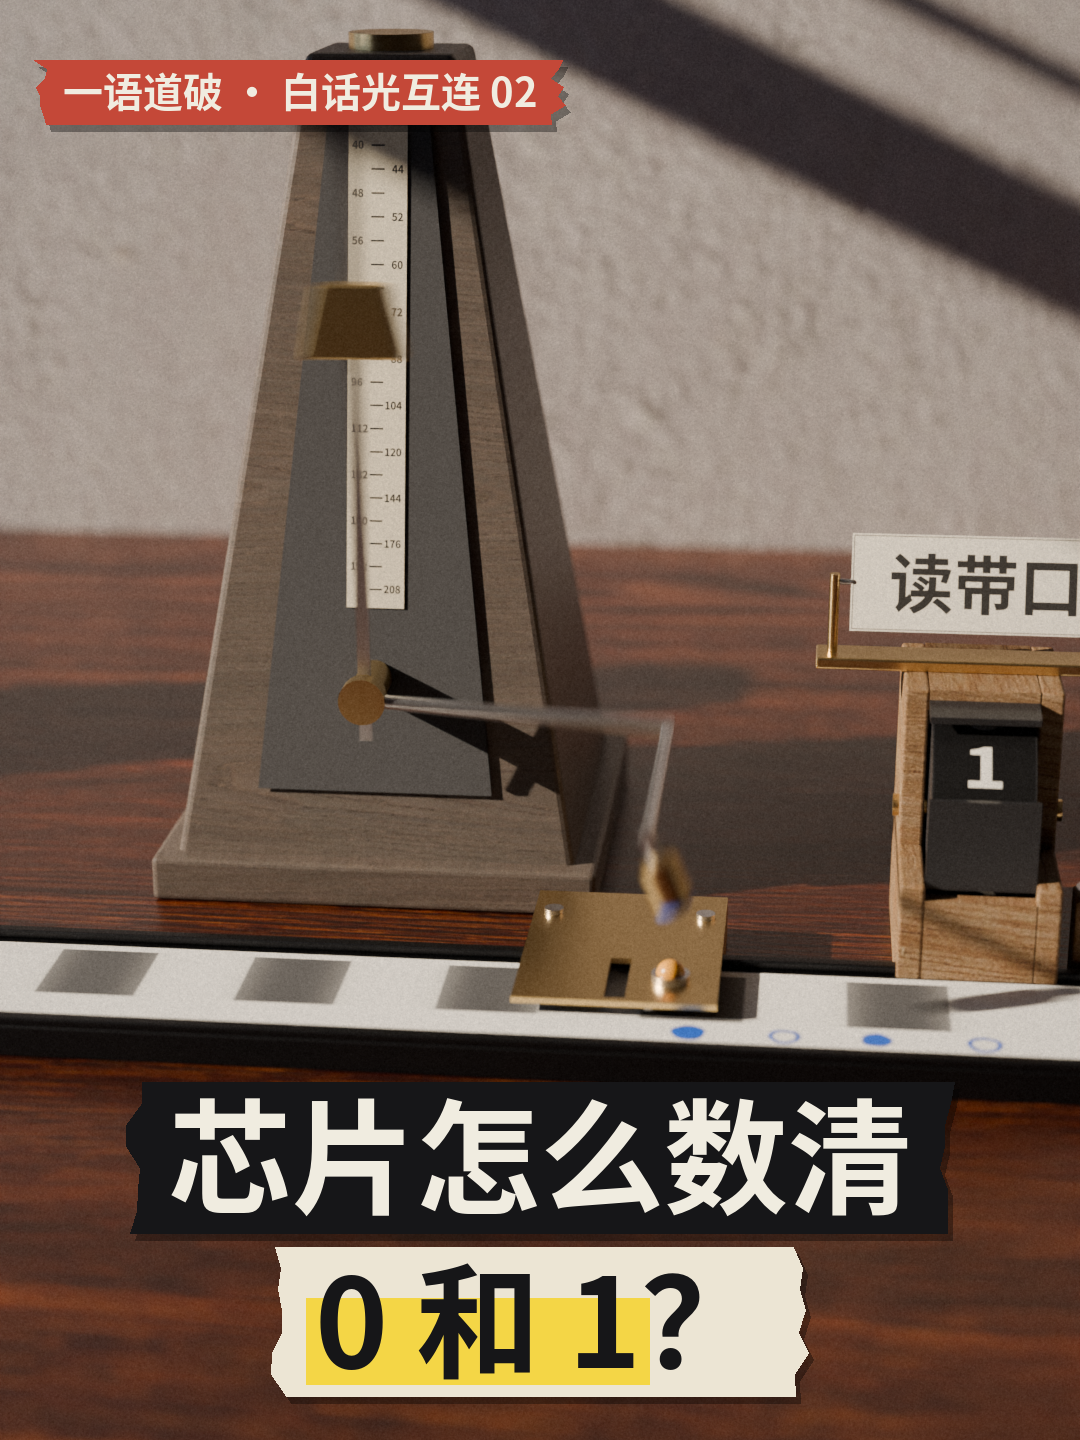
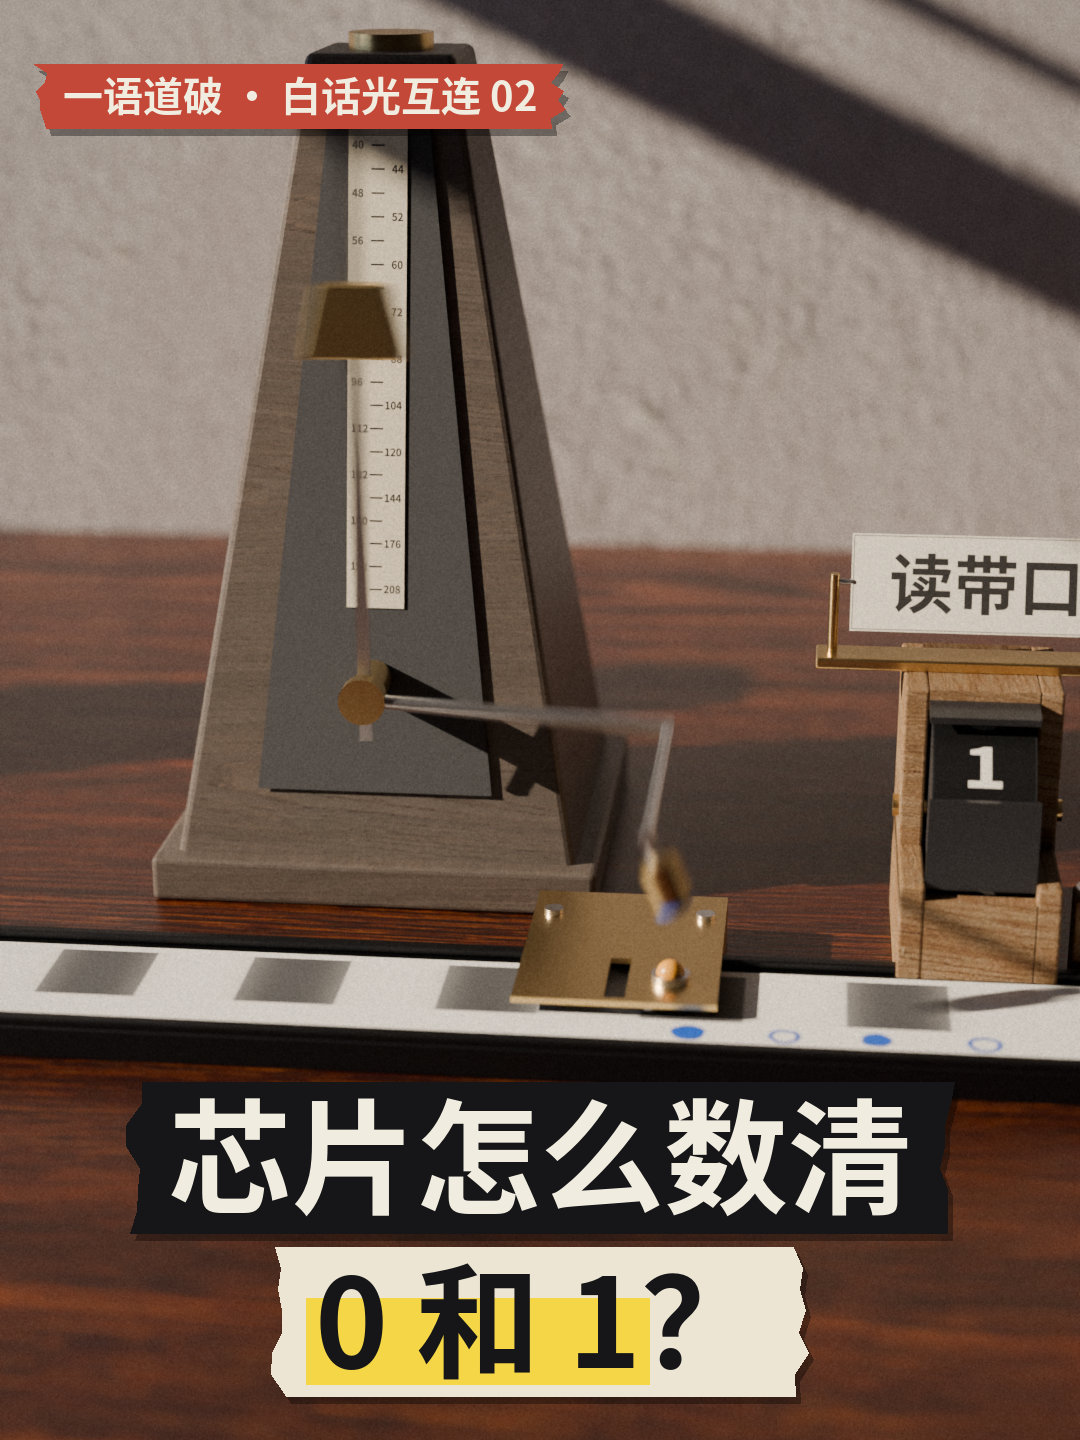
光互连 02 下集桌面演示版：按审核和监督的意见改合成、封面和文案
- comp_film.py：第一帧的大字问题不淡入；「一格多长 = 节拍」签提前到尺子落稳就出；字幕换句不再晚 0.12 秒
- cover.py：系列签挪到左上角，抖音封面的字收进 3:4 裁切范围
- FACTS.md：五处旧行对到成片；publish.md：文件名、章节点、带关键词的备选标题
- 观众（Codex）对成片的反馈；要求清单补 L26–L29

Claude-Session: https://claude.ai/code/session_017cWy2DJTe6QYaTQg4zvix4

Changed region(s): [[0.0306, 0.0312, 0.5194, 0.0938]]

diff --git a/episodes/guanghulian/02-serdes/下集_桌面演示/blender/comp_film.py b/episodes/guanghulian/02-serdes/下集_桌面演示/blender/comp_film.py
@@ -28,7 +28,7 @@ TAGS = {
     "y2": [(4, 36, "tray", "一排", "mt", (0, 215), False), (62, 102, "tape_mid", "排成一列", "mt", (0, 50), False)],
     "y3d": [(6, 36, "prn_out", "黑 = 1　白 = 0", "lt", (-40, 60), False)],
     "s34a": [(4, 90, "dot1", "数一个", "mt", (0, 60), False)],
-    "s34b": [(90, 160, "dot1", "数一个", "mt", (0, 60), False), (167, 187, "ruler", "一格多长 = 节拍", "mt", (0, 70), False)],
+    "s34b": [(90, 138, "dot1", "数一个", "mt", (0, 60), False), (140, 187, "ruler", "一格多长 = 节拍", "mt", (0, 70), False)],   # 尺子 132 帧落稳，签跟着出（全片最要紧的一张签，留够 1.9 秒）
     "y5": [(20, 118, "lamp", "鼓点", "lt", (30, 60), False)],
     "y6g": [(30, 94, "pin", "信号跳一下", "rb", (-30, -70), False)],
     "s9a": [(12, 62, "dot", "每条通道：快一倍", "mt", (0, 70), False)],
@@ -39,12 +39,16 @@ NOTES = {"s34a": (0, 90, "示意：只画两种电平")}       # 全片唯一的
 LOUD = {"s34a": (0, 90), "s34b": (90, 100), "y6c": (146, 234)}     # 要观众数的「啪」：y3–y4 的四下、y6 长黑带上的五下；其余都压低
 
 
-def fade(f, f0, f1, n=5): return max(0.0, min(1.0, (f - f0 + 1) / n, (f1 - f) / n))
+def fade(f, f0, f1, n=5, hard_in=False):
+    """小签淡入淡出各 n 帧。hard_in：不淡入（全片第一帧的大字问题必须一上来就在）。"""
+    return max(0.0, min(1.0, 1.0 if hard_in else (f - f0 + 1) / n, (f1 - f) / n)) if f >= f0 else 0.0
 
 
 def sub_at(t):
-    for a, b, txt in SUBS:
-        if a <= t < b + 0.12: return txt
+    for a, b, txt in SUBS:                                # 正在说的那一句优先
+        if a <= t < b: return txt
+    for a, b, txt in SUBS:                                # 句间的空隙里，上一句多留 0.12 秒，免得字幕一闪一闪
+        if b <= t < b + 0.12: return txt
     return ""
 
 
@@ -56,7 +60,7 @@ def frame_job(job):
     kit = Kit(FONTS, im.size[0]); s = kit.s
     A = ANC[shot]["pts"][f]
     for f0, f1, anc, text, corner, (dx, dy), big in TAGS.get(shot, []):
-        a = fade(f, f0, f1)
+        a = fade(f, f0, f1, hard_in=(shot == "y1" and f0 == 0))
         if a > 0:
             ax, ay = A[anc][0] * kit.W, A[anc][1] * kit.H
             kit.tag(im, (ax + dx * s, ay + dy * s), text, alpha=a, anchor=corner, big=big, line_to=None if big else (ax, ay))

diff --git a/episodes/guanghulian/02-serdes/下集_桌面演示/blender/cover.py b/episodes/guanghulian/02-serdes/下集_桌面演示/blender/cover.py
@@ -35,10 +35,9 @@ def block(im, cx, y, text, size, bg, fg, seed, kw=None, pad=(34, 16)):
 
 
 def cover(im, y, size, wide=True):
-    """wide=True（抖音 9:16）：系列签、两行大字、副题都压在桌面上。False（小红书 3:4）：桌面只够放两行大字，系列签挪到左上角，不放副题。"""
+    """系列签在左上角，两行大字压在纸带下面的桌面上。wide=True（抖音 9:16）多一行副题，整组字收在 y 1680 以上（主页网格按 3:4 居中裁，底部还有界面）；小红书 3:4 不放副题。"""
     cx = im.size[0] / 2
-    if wide: y = block(im, cx, y, TAG, 40, RED, CREAM, 1, pad=(22, 12)) + 22
-    else: block(im, 300, 60, TAG, 40, RED, CREAM, 1, pad=(22, 12))
+    block(im, 300, 64, TAG, 40, RED, CREAM, 1, pad=(22, 12))       # 系列签在左上角：桌面留给大字
     y = block(im, cx, y, L1, size, DARK, CREAM, 2) + 14
     y = block(im, cx, y, L2, size, PAPER, DARK, 3, kw=KW) + 22
     if wide: block(im, cx, y, SUB, 46, DARK, CREAM, 4, pad=(26, 14))
@@ -47,6 +46,6 @@ def cover(im, y, size, wide=True):
 
 base = grade(Image.open(os.path.join(SRC, "y5", "f_0075.png")), seed=75)
 assert base.size == (1080, 1920), base.size
-cover(base.copy(), 1190, 136).save(os.path.join(OUT, "封面_抖音_1080x1920.png"))
+cover(base.copy(), 1240, 128).save(os.path.join(OUT, "封面_抖音_1080x1920.png"))
 cover(base.crop((0, 160, 1080, 1600)), 1082, 124, wide=False).save(os.path.join(OUT, "封面_小红书_1080x1440.png"))
 print("ok")

diff --git a/episodes/guanghulian/02-serdes/下集_桌面演示/FACTS.md b/episodes/guanghulian/02-serdes/下集_桌面演示/FACTS.md
@@ -10,7 +10,7 @@
 | 读带口是一道窄缝，只看得到当前这一小段 | 接收端在某一时刻只能判断当前电平 | 类比 |
 | 纸带不画格线，五格黑连成一整段 | 连续相同的比特之间没有跳变，电平上没有分界 | 成立（类比表达） |
 | 透明尺的刻度 = 一格 =「节拍」；尺和发货端的节拍器「不随货送」 | 原文：这类高速连接通常不另外送时钟。发货端当然有自己的时钟，只是不单独送过去 | 类比 |
-| y3 后半–y4 没对过的节拍器偏慢（约 24.5 帧一下，该是 20 帧），五格黑只盖了四个点 | 同下一行；慢出两成多是夸大的示意，真实的频率偏差是百万分之几十到几百的量级（没有查来源，片中不出现） | 示意 |
+| y3 后半–y4 没对过的节拍器偏慢（25 帧一下，该是 20 帧），五格黑只盖了四个点 | 同下一行；慢出两成多是夸大的示意，真实的频率偏差是百万分之几十到几百的量级（没有查来源，片中不出现） | 示意 |
 | y4 收货端的节拍器「稍慢」，所以数不准 | 收发两端的时钟各自独立，频率、相位有小偏差。偏差的大小是示意 | 示意 |
 | 摆到左头的「嗒」对齐交界，摆到右头的蓝点落在格子正中 | 时钟恢复让时钟沿对齐数据跳变，采样点在比特中间（`../douyin-split/FACTS.md`「在每个比特的正中间看一眼」） | 类比 |
 | y5「嗒」晚了下一摆就早一点 | 用跳变判断本地时钟超前还是滞后，再修正（`../douyin-split/FACTS.md`「早了往后拨一点」一行） | 类比（示意） |
@@ -21,13 +21,13 @@
 | y8 口播「让鼓点不会断太久」 | 扰码让长串相同电平变得极少，不是绝对保证（`../下集_新风格/FACTS.md` 扰码一节） | 〔摘〕 |
 | 用四电平的通道也要扰码 | `../下集_新风格/FACTS.md` | 〔待核〕；片中不提 |
 | y9 纸带速度不变、格子窄一半、节拍器快一倍；签上写「每条通道」 | 信号在线上的传播速度没变，变的是每个比特占的时间（`DECISIONS.md` 2026-11-11）。速度指每条通道 | 成立 |
-| y9 口播加「这套负责发货、收货的电路，叫 SerDes」；桌沿的签「这一整套 = SerDes」 | SerDes = 发货端的串行化 + 收货端的解串（含时钟恢复） | 成立 |
+| y9 口播加「这套负责发货、收货的电路，叫 SerDes」；桌沿的签「整套 = SerDes」 | SerDes = 发货端的串行化 + 收货端的解串（含时钟恢复） | 成立 |
 | y10 洇边一直一样宽，格子窄了才把整格吃掉 | 类比码间干扰：通道造成的展宽大致固定，比特越短，占的比例越大。细讲在 03 | 类比 |
 | y10 糊了以后小灯该闪不闪、蓝点又乱 | 信号模糊后跳变位置不准，时钟更难锁 | 类比 |
 | y10 修字盒发货端、收货端都有 | 发送端和接收端都有均衡电路。盒子数量不对应具体电路 | 示意 |
 | y10 功率计上升、盒子占掉小半张桌子 | 原文：SerDes 自己带着不少修信号的电路，都要耗电、占面积 | 示意 |
 | y11 总功率计不回落，只有「每个比特」小表被往下压；v4 去掉了「盒子变小」 | 口播说的是每送一个比特少花电，而且是「在拼」。每比特能耗逐代下降：IEEE 802.3df 投稿预测 200G / 通道 SerDes 约 4–5 pJ/b（https://www.ieee802.org/3/df/public/22_11/prli_3df_01_2211.pdf）；Broadcom 的介绍（https://www.broadcom.com/topics/what-is-serdes-for-ai-infrastructure）。每条通道总功耗持平或上升：**仅单一来源**（厂商文章 https://www.linkedin.com/pulse/how-224g-serdes-enables-16t-networking-without-increasing-e9j7c）。以上都是审核 11-11 用 AnySearch 查的，只看了搜索摘要，原文没打开 | 示意；「每比特能耗下降」有两处来源〔摘要〕；「总功耗持平或上升」〔待核，仅单一来源〕，片中不说，画面只让指针停住不回落 |
-| y12 签「一条通道 · 每秒上千亿个」贴在读带口旁 | 每条通道 112 Gb/s 级（原文） | 成立 |
+| y12 签「一条通道 · 上千亿 / 秒」贴在读带口旁 | 每条通道 112 Gb/s 级（原文） | 成立 |
 
 ## y6 试镜头（`blender/`，2026-11-11）新加的画面说法
 
@@ -40,7 +40,7 @@
 | 节拍器外形：底 110 mm 见方、高 215 mm 的木壳，刻度 40–208 | 常见机械节拍器的大致尺寸和速度范围，凭印象建的，没有对照具体型号 | 〔待核〕；只是道具外形 |
 | （发光段）走线上亮的一段 = 1、暗的一段 = 0，和纸带同速走进芯片引脚 | 两电平信号的高 / 低电平沿走线传到接收端。电信号本身不发光；一格 24 mm、每秒 28.8 mm 只是为了和纸带对上，真实信号在走线上的速度约为光速的一半到六成，视板材而定（没有查来源，片中不出现） | 示意；不加角注（用户 11-11：常识就知道是示范） |
 | （发光段）跳变到达引脚时闪一下；每个节拍正中芯片上蓝色亮一下 | 同上表：跳变 = 鼓点；采样点在比特中间 | 类比 |
-| （发光段）电路板是一块老式主板的 CC0 模型，走线是我们沿板上的空道另画的，不是模型上原有的走线 | 只当「芯片和走线」的实物背景 | 示意 |
+| （发光段，**试镜头用过，终版已换成下面的 GPT 板子**）电路板是一块老式主板的 CC0 模型，走线是我们沿板上的空道另画的，不是模型上原有的走线 | 只当「芯片和走线」的实物背景 | 示意 |
 | （发光段）信号画成一条走线 | 高速通道实际是差分对（两条线），画成一条是简化 | 简化；不加角注 |
 
 ## 文字分镜 v4（2026-11-11）新加的画面说法
@@ -52,6 +52,6 @@
 | y12 纸带速度不变，格子窄到 3 毫米，读成细密的条纹；走线上是带细闪的金色流光，引脚高频闪、不常亮 | 信号在线上的传播速度没变，变的是每个比特占的时间。数据里一直有跳变，所以不能画成一条常亮的线（那等于全是 1） | 示意；3 毫米是 24 帧 / 秒下拍得清的下限，和真实速率无关 |
 | y12 小签「一条通道 · 上千亿 / 秒」 | 每条通道 112 Gb/s 级（原文） | 成立 |
 | y5「嗒」比鼓晚 6、3、1、0 帧，一点点靠上去 | 时钟恢复环路逐步把相位误差收小；几下就锁上是示意 | 类比（示意） |
-| y3 发货端镜头里只演第四、第五下印黑 | 剪辑上的压缩（印一格 0.83 秒）；不涉及事实 | 无 |
+| y3 发货端镜头只有 1.5 秒，只看得到五下印黑里的一两下 | 剪辑上的压缩（印一格 0.83 秒）；不涉及事实 | 无 |
 | y10 第一只修字盒只收回一半洇边，三只都落下蓝点才回正 | 发送端和接收端都有均衡电路；盒子数量和各自的效果不对应具体电路 | 示意 |
 | （暗场，终版）电路板是 GPT 生成的俯视图贴成的平板，芯片盖和贴片电容在 3D 里立起来；金色信号走图里中间那一对线 | AI 生成的图，版图只是「像」，不对应任何真实产品；只当「一对线走进一颗芯片」的实物背景。差分对画成一条发光带，是简化 | 示意；不加角注（用户 11-11） |

diff --git a/episodes/guanghulian/02-serdes/下集_桌面演示/观众反馈_codex_成片.md b/episodes/guanghulian/02-serdes/下集_桌面演示/观众反馈_codex_成片.md
@@ -1,0 +1,70 @@
+**一句话感受：桌面装置有质感，“芯片靠信号里的鼓点找节拍”让我觉得有意思，但第一次刷到，我很可能在弄明白装置之前先划走。**
+
+我看的是抽帧和字幕，听不到实际配音、音乐和“嗒、啪”的声音，所以声音能不能留住我，这里判断不了。
+
+**1. 前 3 秒：我会犹豫，划走的可能偏高。**
+
+第一眼知道是在讲“芯片怎么认 0 和 1”，手机消息乱码也认得出来。但“少数一个 1”需要反应一下：少了什么？为什么聊天会变成这样？
+
+而且从给出的抽帧看，开头手机里的消息已经是乱码。我没有先看到一句正常的话，再看到它变坏，所以更像“拿乱码举例”，没让我当场感受到“就差一个，整句话居然坏了”。
+
+我可能会多留到 **5 秒**看看这个精致的小装置要干什么；如果那时还没抓住意思，就会走。
+
+**2. 哪些地方看懂了，哪些地方容易掉线**
+
+| 时间 | 我的真实反应 |
+|---|---|
+| **3–6 秒** | 知道是在讲芯片之间传数据，但还不知道纸带、摆锤、读带口分别负责什么，先跟着看。 |
+| **7–11 秒** | “四个还是五个”是个能让我好奇的问题。但我看到纸带上有格子，会想：不是能直接数格子吗？需要靠字幕提醒自己，实际信号是一段平的东西。 |
+| **12–16 秒** | 第一次明确看懂：**原来得知道每一份持续多久，才能数出有几个。** |
+| **19–27 秒** | 全片最好懂的一段。跟歌拍手→听鼓点→信号跳一下，就是鼓点，这个连接我能跟上。芯片上出现发光信号，也让我重新集中注意力。 |
+| **29–35 秒** | 能理解“找到节拍以后，五个就不会数成四个”。但数字轮在变，我不一定能同时追清每一个蓝点，更多是接受了最后的答案。 |
+| **35–40 秒** | “一直是 1 就没鼓点，拍子会跑偏”我懂了。不过只看这些帧，我没有很明显地看出究竟偏在了哪里。 |
+| **41–46 秒** | **最想追问的地方：打乱以后怎么还能还原？** 字幕告诉我可以，画面没有让我一眼认出“这就是刚才那串数据”。 |
+| **47–60 秒** | 最容易走神。刚理解节拍，又接着听 SerDes、速度翻倍、信号糊、修信号、耗电占面积。我开始只记住“越快越难、越费电”，细节掉了。全景里的装置也变小了。 |
+| **63–66 秒** | “总耗电”和“每个比特”两只表，让我短暂卡住：是总耗电下降，还是只说每送一份数据更省电？ |
+| **68–72 秒** | 回到消息终于正常，前后接上了，这个收尾有满足感。 |
+| **74–81 秒** | “听准节拍”记住了；“拆回一排”我没真正看懂。如果已经看到这里，我会看完，但下一篇预告对我的吸引力一般。 |
+
+**3. 字看不看得清**
+
+基于拼图判断，不能当成实际手机全屏测试：
+
+- **开头问题和手机聊天大字最好读**，白底黑字的小纸签也容易找到。
+- **底部主字幕基本能辨认，但不轻松。** 两行字幕出现时，我会优先读字幕，漏看盖点和数字变化。
+- **蓝色实心点、空心圈、尺子刻度偏细。** 它们似乎承担了重要解释，但我第一眼不会主动盯着看。
+- **47–50 秒的全景、60–64 秒的远景**里，小纸签变成“知道那里有字，懒得读”。右上系列名也基本会被我忽略。
+- 没看到特别明显的字幕挡住关键动作。更大的问题是：**要同时看字幕、计数轮和纸带，眼睛忙不过来。**
+
+**4. 看完能用一句话说什么**
+
+> 芯片传数据时，会靠信号变化找准节拍，这样一长串 0 和 1 才不会数错。
+
+这是我真正带走的内容。“排成一列、拆回一排”反而没有节拍这个知识点记得牢。
+
+**5. 我会怎么互动**
+
+- **点赞：** 如果看完，会点。听鼓点这个解释让我学到了东西，画面也有认真做的感觉。
+- **收藏：** 大概率不会，我日常暂时用不上。
+- **评论：** 最可能写：**“打乱了还能还原，那接收那边怎么知道按什么规则还原？”**
+- **转发：** 不会随手转发，除非正好有朋友喜欢电脑、芯片。
+
+**6. 最想让作者改的 5 件事，按重要程度排**
+
+1. **开头先让我看到一句正常消息，再当场变乱码。** 现在一上来就是乱码，我少了“出事了”的直观感受。
+
+2. **“四个还是五个”那里，让我明确看到一次数错。** 连续黑色那一段、四次盖点、最后漏掉的一份，最好能在同一个近景里对应上。我想亲眼发现错在哪里。
+
+3. **“拍子跑偏”给一个明显的后果。** 比如原本盖在格子中间的点，后来压到边上。我就能马上明白“跑偏”不是一句抽象的话。
+
+4. **“打乱—还原”让我认出前后是同一串。** 不需要讲复杂规则，但至少让我看到：原来长这样，途中变了，最后确实变回来了。
+
+5. **后半段讲到哪件事，就让我看清哪件事。** 讲信号糊时看清它怎么糊，讲修信号时看清修前修后；全景里的小标签我真的不会逐个读。结尾“拆回一排”也需要一个能认出来的动作。
+
+**7. 两个平台分别说**
+
+**抖音：** 我更可能在 **3–6 秒**就划走，或者在 **47 秒左右**觉得“后面又开始讲新东西了”而离开。最能留我的，是数错的瞬间和芯片上的发光信号，前提是我能看清发生了什么。
+
+**小红书：** 如果标题让我知道是在解释“芯片怎么不数错数据”，我会更愿意停下来，没懂的地方也可能回看。但收藏前，我希望能清楚复述“怎么数错、怎么数准”，目前后一个讲得更明白。
+
+全程未改文件；只读取了规则，未运行视频播放或手机实屏检查。声音节奏和实际全屏字大小仍需看片确认。

diff --git a/episodes/guanghulian/要求清单_3D与Blender.md b/episodes/guanghulian/要求清单_3D与Blender.md
@@ -213,3 +213,7 @@
 | L23 | 实拍质感的片子不留顶部的五站条 | 「实拍质感的不要留顶部的五站条了，大概率大家不会关注，还影响画面」（11-11） | 有效。取代系列 skill「五站条留在画面顶部」在这类片子上的适用；右上角系列名用户没提，主 agent 先留着并问过 |
 | L24 | 模型文件太大传不进对话，问怎么办；可以找 GPT 出模型图 | 「我无法传到对话里，因为文件太大了，怎么办？另外，关于建模部分，我发现GPT很擅长生成模型图，如果你有需要，我可以找它来制作」（11-11） | 待用户给 Drive 链接或图。主 agent 的回答记在 `DECISIONS.md` 11-11。素材来源和能否商用仍要核（CLAUDE.md「素材优先」） |
 | L25 | 暗场的电路板终版用 GPT 的图那一版；这条路可行的话以后多用 | 「GPT的图和连接都发你了，你可以做一下试试对比，如果这条路可行，以后的路子就广了」；「终版用右边的GPT板子」（11-11） | 有效。L24 的后半（GPT 出图）已落实；Drive 里的显卡模型这一集不用 |
+| L26 | 认了报价，终版渲完直接发 | 「好，渲完发我」（11-11） | 有效。渲完之后合成、动效检查、三方检查、交付，中间不再等确认 |
+| L27 | 用户去睡了，第二天起床看 | 「好 我准备睡觉去了 明天起床看」（11-11） | 有效。夜里不问问题，做到能交付为止；要用户定的事集中写在交付说明里 |
+| L28 | 观众（Codex）先登录；5 小时额度可能快满，11:30 重置；主 agent 自己设闹钟，满了就等重置后重跑任务 | 「观众我先登录吧，5个小时额度可能快慢了，11.30重置，你自己设置个闹钟，要是到时候满了，你就等重置以后重新跑任务」（11-11） | 已做：登录成功；闹钟按北京时间 23:30 理解，23:37 触发；审核、监督、观众这次都没有撞额度 |
+| L29 | 监督 11-11 夜指出清单漏记的三句（原话在 `DECISIONS.md` 11-11）：不做 4K，1080P 足够；没量过不要假定 3 美元只能渲几秒；GPU 跑得更快就可以直接 GPU 渲 | 「这个片子还没做，我们现在不能确定3美元只能做9s吧？而且我们不做4K，1080P足够了」；「在云端CPU做是不是要花token？如果GPU跑的更快，可以直接GPU渲」（11-11） | 有效。L11、L14 的补充 |

diff --git a/episodes/guanghulian/02-serdes/下集_桌面演示/publish.md b/episodes/guanghulian/02-serdes/下集_桌面演示/publish.md
@@ -1,6 +1,6 @@
 # 光互连 02 下集 · 桌面演示版 · 发布文案
 
-成片（不进仓库）：`out/v4/光互连02_下集_桌面演示版.mp4`，1080×1920，24 帧 / 秒，1:22，-14 LUFS。
+成片（不进仓库）：`out/v4/光互连02_下集_桌面演示版.mp4`（发布用，约 80 MB），1080×1920，24 帧 / 秒，1:22，-14 LUFS。同目录 `…_母版.mp4`（约 250 MB）是没压过的底版，一般用不到。
 封面：同目录 `封面_抖音_1080x1920.png`、`封面_小红书_1080x1440.png`。
 
 发布前：
@@ -22,7 +22,7 @@
 00:00  少数一个 1，全乱了
 线上少数一位，后面整体错位，消息变成乱码
 
-00:06  四个，还是五个？
+00:07  四个，还是五个？
 连续的 1 在线上是一段平平的高电平，自己数会数偏
 
 00:12  节拍从哪来
@@ -53,7 +53,10 @@
 芯片怎么数清0和1？靠听鼓点
 ```
 
-备选标题：
+备选标题（第一条后半句带关键词 SerDes，利于搜索；正好 20 字）：
+```
+芯片怎么数清0和1？一次看懂SerDes
+```
 ```
 少数一个1，整句话就乱了
 ```
